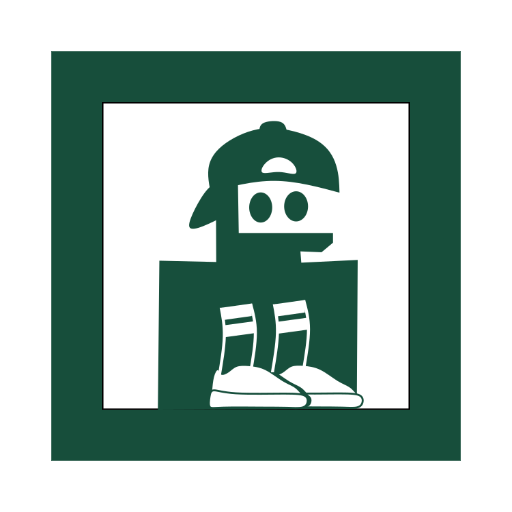
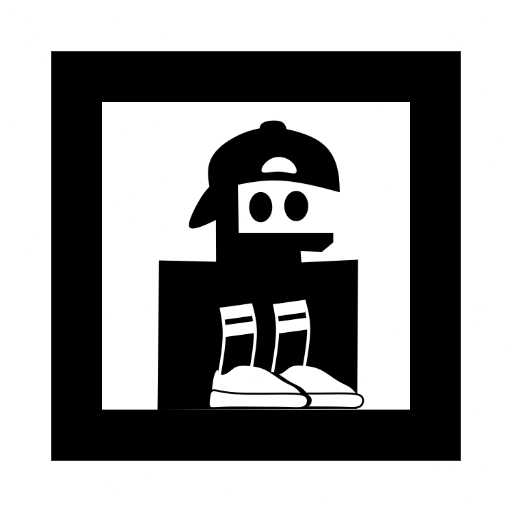
sistemazioni

diff --git a/ar_bricko_skate_version.html b/ar_bricko_skate_version.html
@@ -27,7 +27,7 @@
 
             </a-assets>
 
-            <a-marker type="pattern" url="3d/marker-skater.patt">
+            <a-marker type="pattern" url="3d/pattern-skaterSempliceNera.patt">
                 <!-- Aggiungi un oggetto 3D da visualizzare -->
                 <!--<a-image src="immagini/altalena.jpg" position="0 0 0" rotation="-90 0 0" width="1.8" height="2.8"></a-image>-->
                     <!-- define your gltf asset -->
@@ -40,7 +40,7 @@
                     <a-entity gltf-model="#livello0" scale=".5 .5 .5"  position="0 0 0" rotation="0 90 -90"></a-entity>
                     <a-entity gltf-model="#livello1" scale=".5 .5 .5"  position="0 0 0.05" rotation="0 90 -90"></a-entity>  
 
-                    <a-entity gltf-model="bricco" scale="1.5 1.5 1.5"   position="0 0.7 1.5" rotation="90 90 270"></a-entity> 
+                    <a-entity gltf-model="#bricco" scale="1.5 1.5 1.5"   position="0 0.7 1.5" rotation="90 90 270"></a-entity> 
                     
                     <a-entity gltf-model="#stella" scale="1.4 1.4 1.4" animation-mixer position="1 1 1.2" rotation="0 90 -90"></a-entity> 
                     <a-entity gltf-model="#1x12" scale="1 1 1" animation-mixer position="-1.5 0.2 -1.2" rotation="0 90 -90"></a-entity> 
